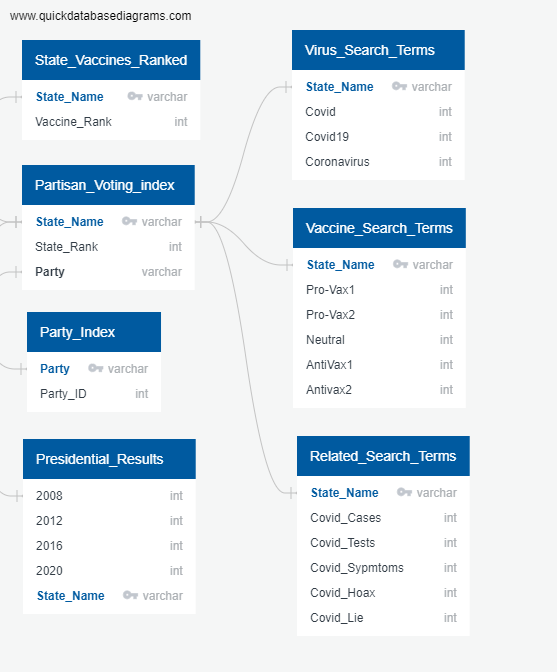
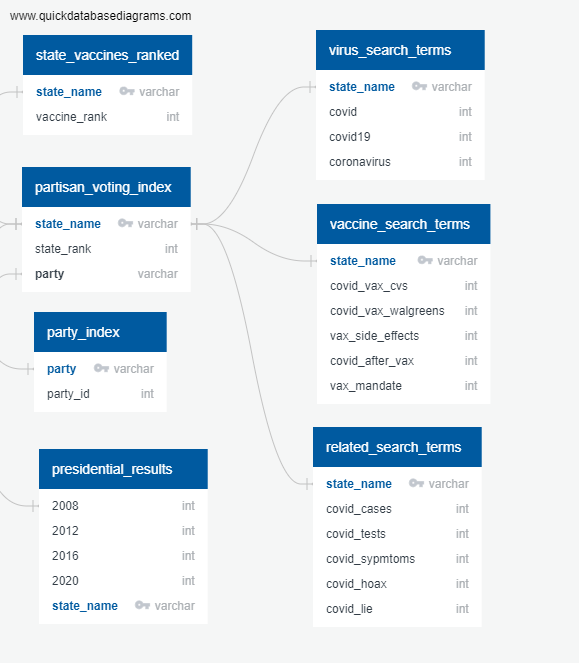
updating ERD to reflect vaccine search terms table columns

diff --git a/SQL/ERD_Text.md b/SQL/ERD_Text.md
@@ -1,48 +1,48 @@
-Party_Index
+party_index
 -
-Party varchar pk
-Party_ID int
+party varchar pk
+party_id int
 
-Presidential_Results
+presidential_results
 -
-State_Name varchar pk fk - Partisan_Voting_Index.State_Name
-2020 int
-2016 int
-2012 int
+state_name varchar pk fk - Partisan_Voting_Index.State_Name
 2008 int
+2012 int
+2016 int
+2020 int
 
-Partisan_Voting_index
+partisan_voting_index
 -
-State_Name varchar pk
-State_Rank int
-Party varchar fk - Party_Index.Party
+state_name varchar pk
+state_rank int
+party varchar fk - Party_Index.Party
 
-State_Vaccines_Ranked
+state_vaccines_ranked
 -
-State_Name varchar pk fk - Partisan_Voting_Index.State_Name
-Vaccine_Rank int
+state_name varchar pk fk - Partisan_Voting_Index.State_Name
+vaccine_rank int
 
-Virus_Search_Terms
+virus_search_terms
 -
-State_Name varchar pk fk - Partisan_Voting_Index.State_Name
-Covid int
-Covid19 int
-Coronavirus int
+state_name varchar pk fk - Partisan_Voting_Index.State_Name
+covid int
+covid19 int
+coronavirus int
 
-Vaccine_Search_Terms
+vaccine_search_terms
 -
-State_Name varchar pk fk - Partisan_Voting_Index.State_Name
-Pro-Vax1 int
-Pro-Vax2 int
-Neutral int
-AntiVax1 int
-Antivax2 int
+state_name varchar pk fk - Partisan_Voting_Index.State_Name
+covid_vax_cvs int
+covid_vax_walgreens int
+vax_side_effects int
+covid_after_vax int
+vax_mandate int
 
-Related_Search_Terms
+related_search_terms
 -
-State_Name varchar pk fk - Partisan_Voting_Index.State_Name
-Covid_Cases int
-Covid_Tests int
-Covid_Sypmtoms int
-Covid_Hoax int
-Covid_Lie int
+state_name varchar pk fk - Partisan_Voting_Index.State_Name
+covid_cases int
+covid_tests int
+covid_sypmtoms int
+covid_hoax int
+covid_lie int
